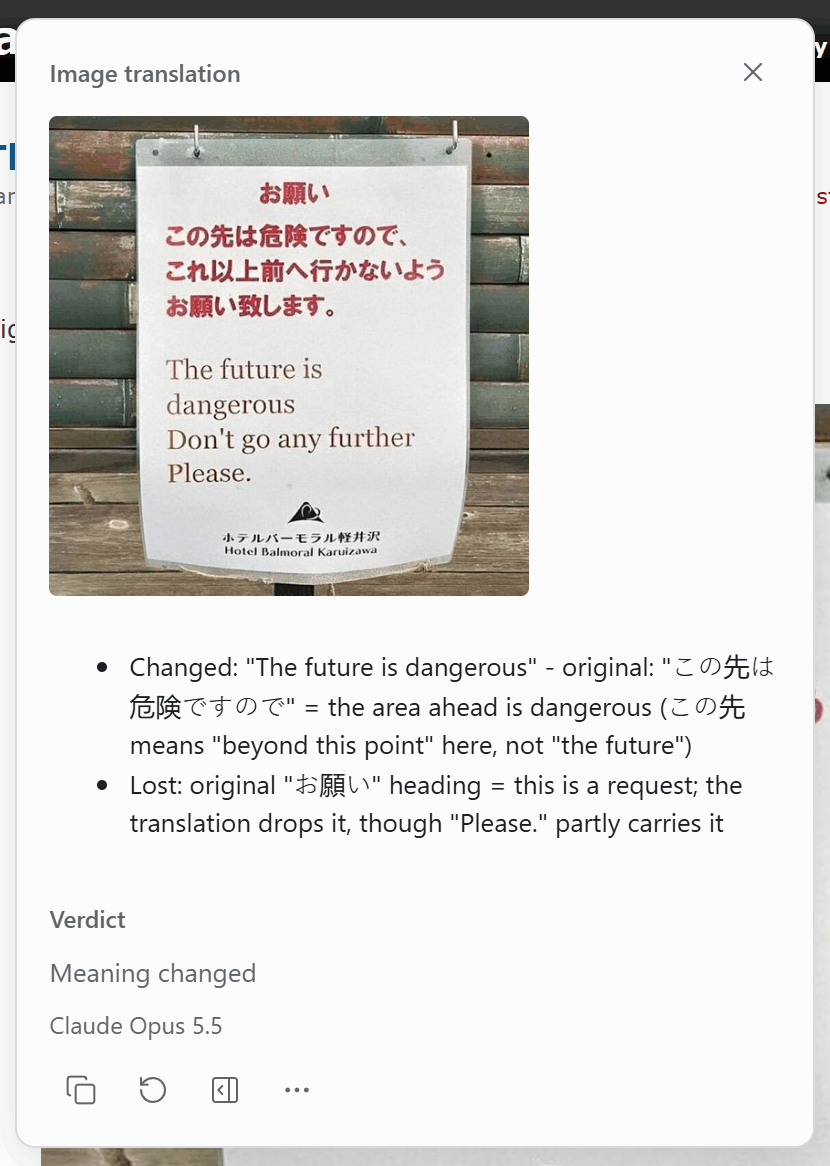
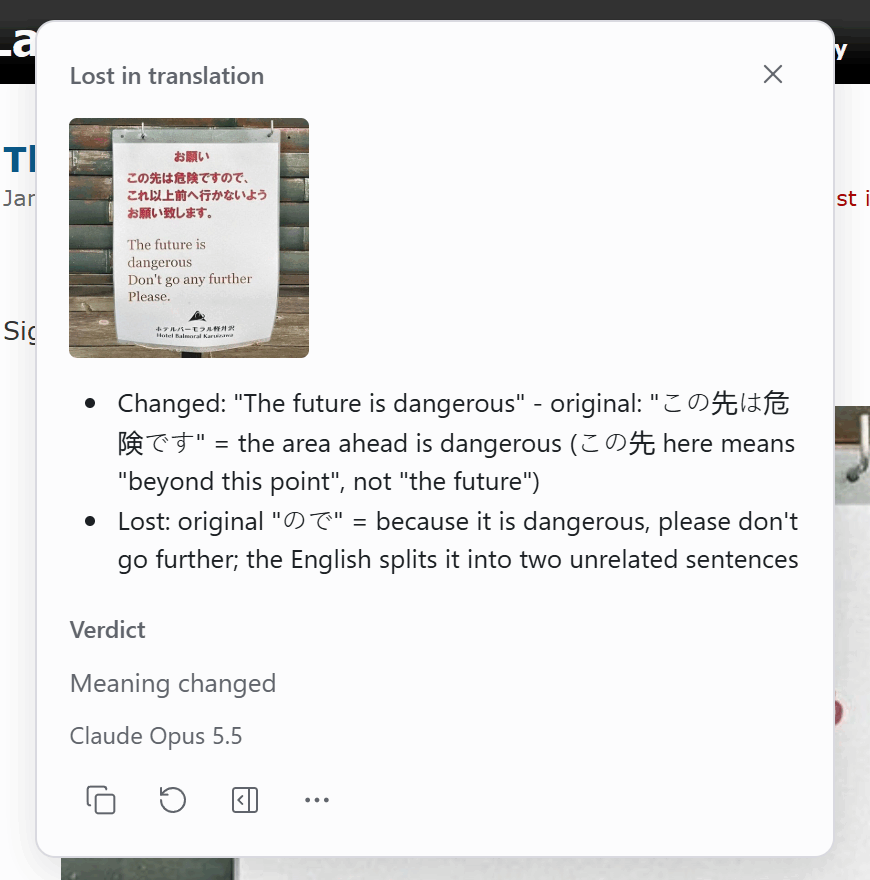
docs(tasks): recapture the two image tasks with the task name in the header
- the old shots said Image translation, a header bug fixed on fix/image-tasks
- merge fix/image-tasks before this branch, so the shots match master

diff --git a/docs/custom-tasks.md b/docs/custom-tasks.md
@@ -10,7 +10,7 @@ The screenshots show replies from Claude Opus 5.5 through the native host and th
 
 Right-click a photo of a bilingual sign, or select a text and its translation together, and get what the translation changed, lost or added, with a verdict (here この先 on a hotel sign means "beyond this point", not "the future").
 
-<img src="media/tasks/lost-in-translation.png" alt="Ega reply on a photo of a sign whose Japanese says the area ahead is dangerous and whose English says The future is dangerous: Changed, この先 means beyond this point here, not the future; Lost, the お願い heading; Verdict Meaning changed" width="480">
+<img src="media/tasks/lost-in-translation.png" alt="Ega reply on a photo of a sign whose Japanese says the area ahead is dangerous and whose English says The future is dangerous: Changed, この先 means beyond this point here, not the future; Lost, ので (because), so the English splits the warning into two unrelated sentences; Verdict Meaning changed" width="480">
 
 <details><summary>Prompt and fields</summary>
 
@@ -182,7 +182,7 @@ Send page context: on. Language: target language.
 
 Put your measurements in the task's instructions once, then right-click a size chart image or select a size table and get your size (here XL, because the chart gives half the chest width: 53 cm x 2 = 106 cm, 8 cm more than your chest).
 
-<img src="media/tasks/my-size.png" alt="Ega reply on a T-shirt size chart image with widths a and b in inches and cm: XL, a 53 cm x 2 = 106 cm chest, 8 cm of ease; Fit In range; Close call L, 101 cm, 3 cm over" width="480">
+<img src="media/tasks/my-size.png" alt="Ega reply on a T-shirt size chart image with widths a and b in inches and cm: XL, a 53 cm x 2 = 106 cm chest, 8 cm of ease; Fit In range; Close call L, 101 cm, only 3 cm over" width="480">
 
 <details><summary>Prompt and fields</summary>
 
